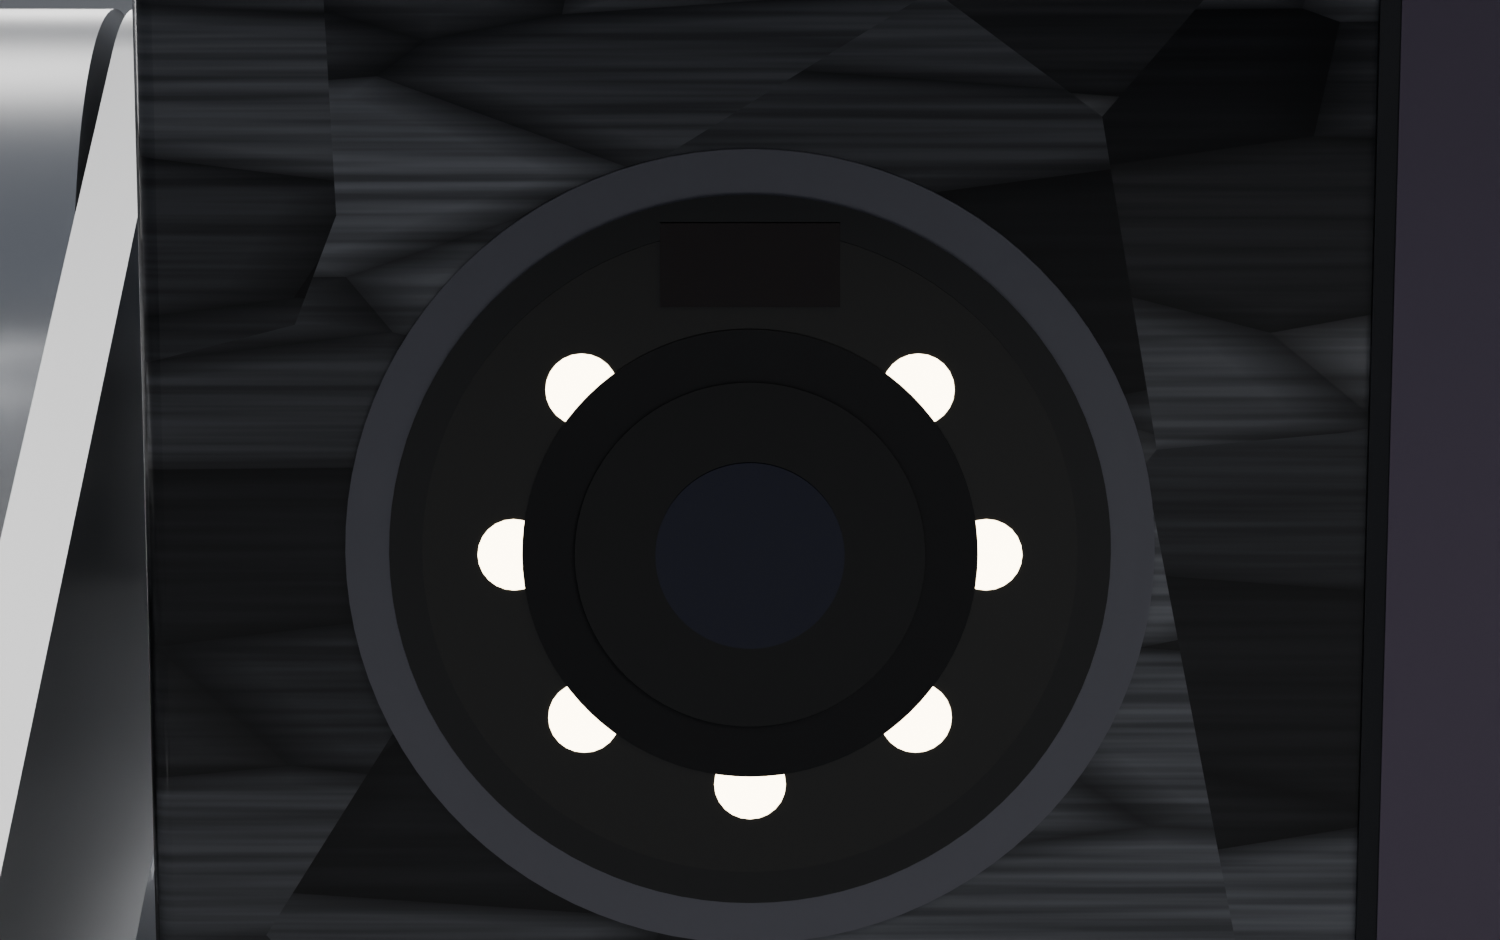
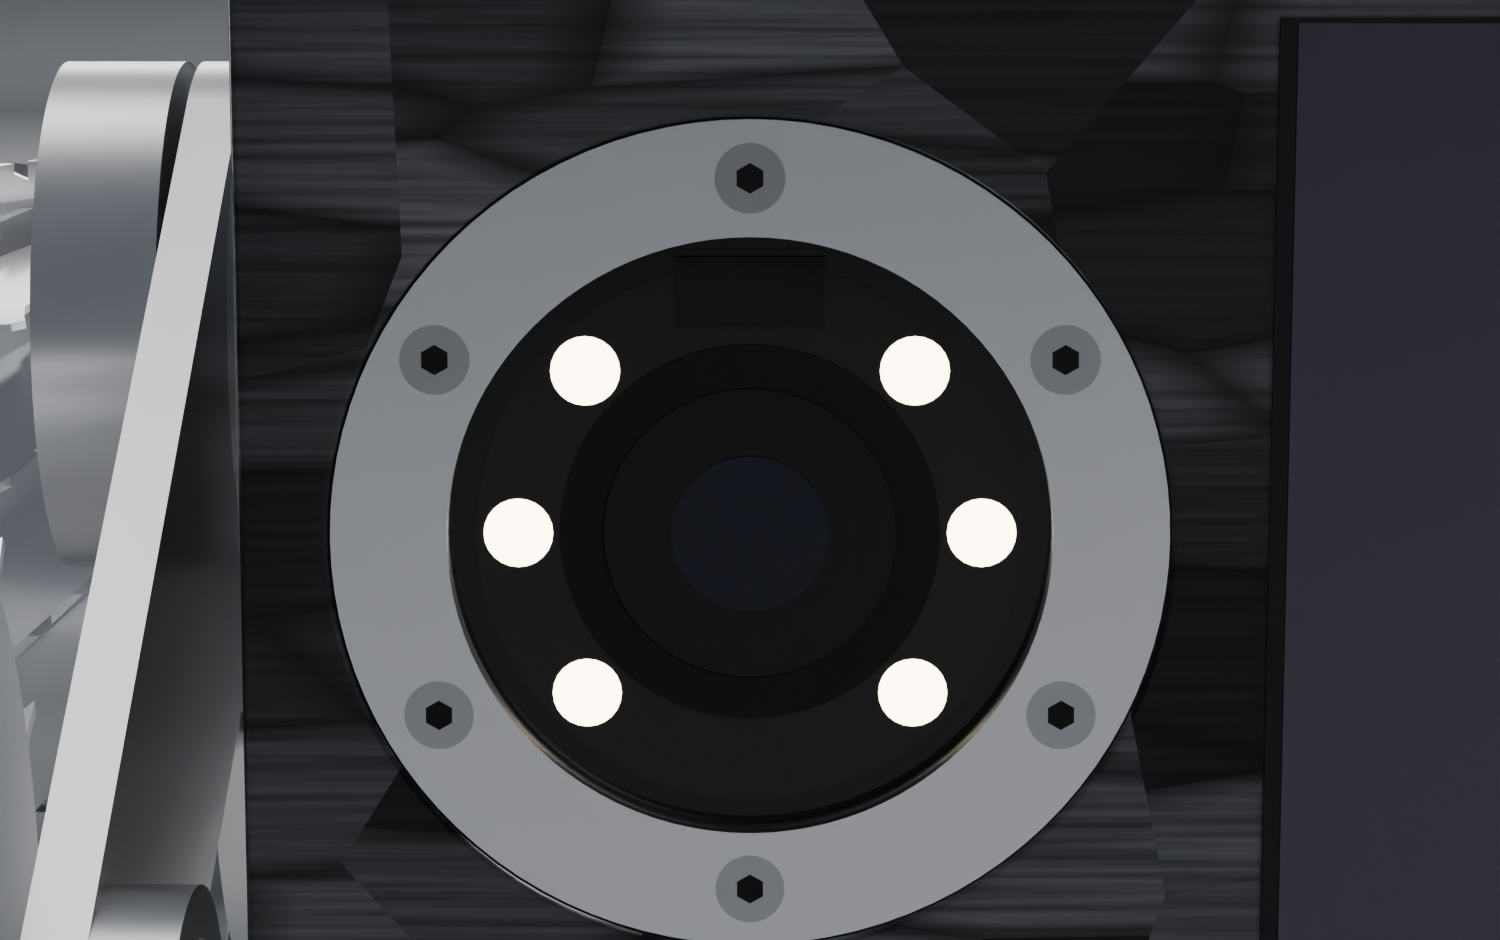
Renders R1, R4, R6 to R11 on the M2 (Metal): bezel with screws, six LEDs, black and gunmetal variants
Claude-Session: https://claude.ai/code/session_01B6dv3MrM4Aoso2v5p6Apqe

diff --git a/docs/render-jobs.md b/docs/render-jobs.md
@@ -19,20 +19,21 @@ When a change to the CAD, the layout, the materials or the camera alters what a 
 
 | Id | Image (`docs/images/`) | Settings | Expected | Why (last change) | Status | Notes |
 |---|---|---|---|---|---|---|
-| R1 | `rover-hero.png` | `VIEW=hero`, 1600x1000, 96 samples | camera end three-quarter view: carbon body, near-black cells, aluminium struts and wheels, the 26 mm window with the lens visible | a bare aluminium window bezel flush with the carbon face and six flush countersunk M1.6 screws, the sapphire recessed behind it (2026-11-14, owner's taste; the window view should show a flat ring with six small hex-socket heads and a visible depth to the window), six mid-power LEDs at 10 mm radius, sensor package behind clear glass; was: window redesigned 2026-11-14 (LED ring, lens, sensor; no beamsplitter); LEDs no longer drawn when off | pending | M2 Metal GPU: 36 s. |
+| R1 | `rover-hero.png` | `VIEW=hero`, 1600x1000, 96 samples | camera end three-quarter view: carbon body, near-black cells, aluminium struts and wheels, the 26 mm window with the lens visible | a bare aluminium window bezel flush with the carbon face and six flush countersunk M1.6 screws, the sapphire recessed behind it (2026-11-14, owner's taste; the window view should show a flat ring with six small hex-socket heads and a visible depth to the window), six mid-power LEDs at 10 mm radius, sensor package behind clear glass; was: window redesigned 2026-11-14 (LED ring, lens, sensor; no beamsplitter); LEDs no longer drawn when off | done 2026-11-14 | M2 Metal GPU: 41 s.  |
 | R2 | `rover-rear.png` | `VIEW=rear`, 1600x1000, 96 | the comms end: the square RF window plug | unchanged since 2026-11-13; re-render only to refresh | done 2026-11-14 | M2 Metal GPU: 36 s. |
 | R3 | `rover-top.png` | `VIEW=top`, 1600x1000, 96 | top lid cells, camera end up | unchanged since 2026-11-13 | done 2026-11-14 | M2 Metal GPU: 36 s. |
-| R4 | `rover-detail.png` | `VIEW=detail`, 1500x940, 96 | the camera-end corner: the window with lens, hood, dead-front ring (no visible LED outlines now), sensor patch above the lens, four end-face cells | a bare aluminium window bezel flush with the carbon face and six flush countersunk M1.6 screws, the sapphire recessed behind it (2026-11-14, owner's taste; the window view should show a flat ring with six small hex-socket heads and a visible depth to the window), six mid-power LEDs at 10 mm radius, sensor package behind clear glass; was: LED outlines removed (they showed as raised discs) | pending | M2 Metal GPU: 49 s. |
+| R4 | `rover-detail.png` | `VIEW=detail`, 1500x940, 96 | the camera-end corner: the window with lens, hood, dead-front ring (no visible LED outlines now), sensor patch above the lens, four end-face cells | a bare aluminium window bezel flush with the carbon face and six flush countersunk M1.6 screws, the sapphire recessed behind it (2026-11-14, owner's taste; the window view should show a flat ring with six small hex-socket heads and a visible depth to the window), six mid-power LEDs at 10 mm radius, sensor package behind clear glass; was: LED outlines removed (they showed as raised discs) | done 2026-11-14 | M2 Metal GPU: 53 s.  |
 | R5 | `rover-cells.png` | `VIEW=cells`, 1500x940, 96 | raking close-up of the top-lid cells | unchanged since 2026-11-13 | done 2026-11-14 | M2 Metal GPU: 22 s. |
-| R6 | `rover-window.png` | `VIEW=window`, 1500x940, 96 | straight-on close-up: glass, hood, lens, a smooth dark ring with no LED outlines, the small dark sensor patch at the top | a bare aluminium window bezel flush with the carbon face and six flush countersunk M1.6 screws, the sapphire recessed behind it (2026-11-14, owner's taste; the window view should show a flat ring with six small hex-socket heads and a visible depth to the window), six mid-power LEDs at 10 mm radius, sensor package behind clear glass; was: LED outlines removed | pending | M2 Metal GPU: 81 s. |
-| R7 | `rover-window-lit.png` | `VIEW=window LED=on SUFFIX=-lit`, 1500x940, 96 | the same view with the six white LEDs lit (the lamp on during a photograph) | a bare aluminium window bezel flush with the carbon face and six flush countersunk M1.6 screws, the sapphire recessed behind it (2026-11-14, owner's taste; the window view should show a flat ring with six small hex-socket heads and a visible depth to the window), six mid-power LEDs at 10 mm radius, sensor package behind clear glass; was: new variant, 2026-11-14 | pending | M2 Metal GPU: 58 s. |
-| R8 | `rover-window-black.png` | `VIEW=window BEZEL=black SUFFIX=-black`, 1500x940, 96 | the straight-on window close-up with the bezel ring and the six screws in a black oxide finish (dark charcoal, satin, against the glossy carbon) | owner asked to see a black oxide version of the bezel, 2026-11-14 | done 2026-11-14 (desktop, CPU, 64 samples; the Mac may redo it at 96) | Looked at: the black ring and screws nearly disappear against the glossy carbon (black on black); only a faint satin sheen and the ring's edge show. |
-| R9 | `rover-detail-black.png` | `VIEW=detail BEZEL=black SUFFIX=-black`, 1500x940, 96 | the camera-end corner with the black bezel | same | pending | |
-| R10 | `rover-window-gunmetal.png` | `VIEW=window BEZEL=gunmetal SUFFIX=-gunmetal`, 1500x940, 96 | the straight-on window close-up with the ring dark-grey anodised and the six screws dark stainless: reads as metal against the glossy carbon, darker than the bare aluminium | owner chose to see a gunmetal bezel, 2026-11-14 (black nearly vanished) | done 2026-11-14 (desktop, CPU, 64 samples; the Mac may redo it at 96) | Looked at: the dark-grey ring reads as metal against the carbon, the six slightly lighter screw heads and their hex sockets show clearly. |
-| R11 | `rover-detail-gunmetal.png` | `VIEW=detail BEZEL=gunmetal SUFFIX=-gunmetal`, 1500x940, 96 | the camera-end corner with the gunmetal bezel | same | pending | |
+| R6 | `rover-window.png` | `VIEW=window`, 1500x940, 96 | straight-on close-up: glass, hood, lens, a smooth dark ring with no LED outlines, the small dark sensor patch at the top | a bare aluminium window bezel flush with the carbon face and six flush countersunk M1.6 screws, the sapphire recessed behind it (2026-11-14, owner's taste; the window view should show a flat ring with six small hex-socket heads and a visible depth to the window), six mid-power LEDs at 10 mm radius, sensor package behind clear glass; was: LED outlines removed | done 2026-11-14 | M2 Metal GPU: 47 s.  |
+| R7 | `rover-window-lit.png` | `VIEW=window LED=on SUFFIX=-lit`, 1500x940, 96 | the same view with the six white LEDs lit (the lamp on during a photograph) | a bare aluminium window bezel flush with the carbon face and six flush countersunk M1.6 screws, the sapphire recessed behind it (2026-11-14, owner's taste; the window view should show a flat ring with six small hex-socket heads and a visible depth to the window), six mid-power LEDs at 10 mm radius, sensor package behind clear glass; was: new variant, 2026-11-14 | done 2026-11-14 | M2 Metal GPU: 60 s.  |
+| R8 | `rover-window-black.png` | `VIEW=window BEZEL=black SUFFIX=-black`, 1500x940, 96 | the straight-on window close-up with the bezel ring and the six screws in a black oxide finish (dark charcoal, satin, against the glossy carbon) | owner asked to see a black oxide version of the bezel, 2026-11-14 | done 2026-11-14 | M2 Metal GPU: 46 s (redone on the Mac at 96 samples; the desktop CPU version was at 64). Looked at: the black ring and screws nearly disappear against the glossy carbon (black on black); only a faint satin sheen and the ring's edge show. |
+| R9 | `rover-detail-black.png` | `VIEW=detail BEZEL=black SUFFIX=-black`, 1500x940, 96 | the camera-end corner with the black bezel | same | done 2026-11-14 | M2 Metal GPU: 52 s.  |
+| R10 | `rover-window-gunmetal.png` | `VIEW=window BEZEL=gunmetal SUFFIX=-gunmetal`, 1500x940, 96 | the straight-on window close-up with the ring dark-grey anodised and the six screws dark stainless: reads as metal against the glossy carbon, darker than the bare aluminium | owner chose to see a gunmetal bezel, 2026-11-14 (black nearly vanished) | done 2026-11-14 | M2 Metal GPU: 52 s (redone on the Mac at 96 samples; the desktop CPU version was at 64). Looked at: the dark-grey ring reads as metal against the carbon, the six slightly lighter screw heads and their hex sockets show clearly. |
+| R11 | `rover-detail-gunmetal.png` | `VIEW=detail BEZEL=gunmetal SUFFIX=-gunmetal`, 1500x940, 96 | the camera-end corner with the gunmetal bezel | same | done 2026-11-14 | M2 Metal GPU: 53 s.  |
 
 ## Notes from the render session
 
 - 2026-11-14 (M2 MacBook Air): the Mac's existing `/Applications/Blender.app` was 4.1.1, which fails on the Principled BSDF "Thin Film Thickness" input (added in 4.2). Installed 4.5.9 LTS beside it (dmg SHA-256 matched `e3a3d7aa...`; copied to `~/tools/Blender-4.5.9.app`, not into /Applications) and ran with `BLENDER=$HOME/tools/Blender-4.5.9.app/Contents/MacOS/Blender hardware/assembly/render_all.sh`. `render_all.sh` picks `/Applications/Blender.app` by default, so on this Mac that variable must be set (or 4.5.9 put in /Applications).
 - The venv existed, so `blender_export.py` regenerated `struts.stl` and `wheels.stl` from the STEP files without the CAD chain.
 - Device reported: `METAL ['Apple M2 (GPU - 10 cores)']`. All seven jobs done; every image was opened and checked against "Expected". R6 was redone (it was the desktop's CPU test, 457 s there; 81 s here).
+- 2026-11-14 (second batch, M2): pulled, regenerated the STL meshes (struts changed), rendered R1, R4, R6, R7, R9, R11 and redid R8 and R10 at 96 samples; all on Metal, 41 to 60 s each. Every image looked at: bare-aluminium bezel flush with the carbon, six hex-socket screws, window visibly recessed, six LEDs when lit (R7). Black bezel (R8, R9): ring and screws nearly vanish against the carbon. Gunmetal (R10, R11): reads as metal, screws visible. Nothing wrong found.
